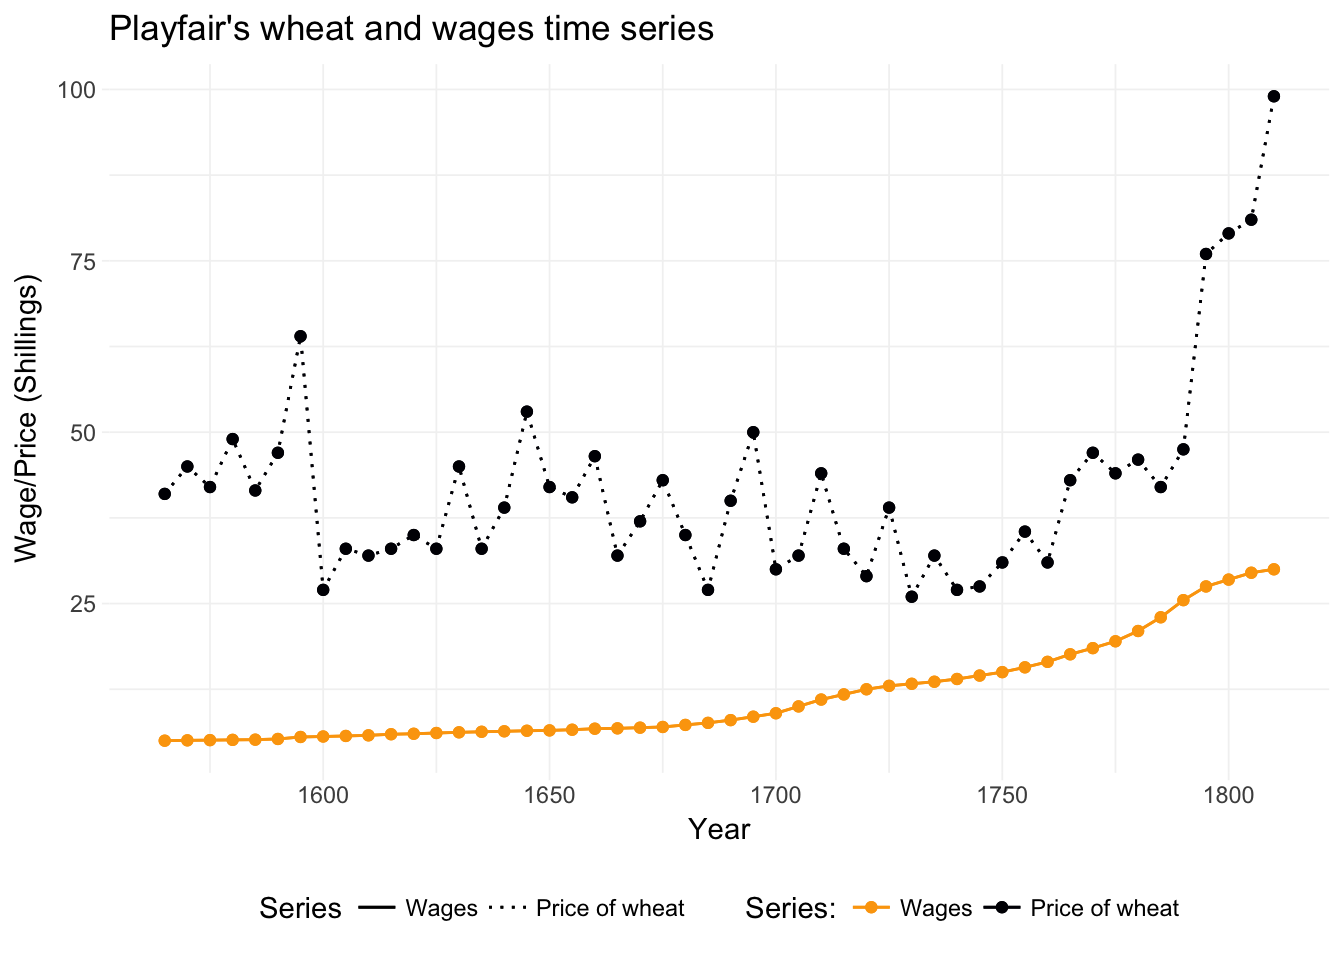
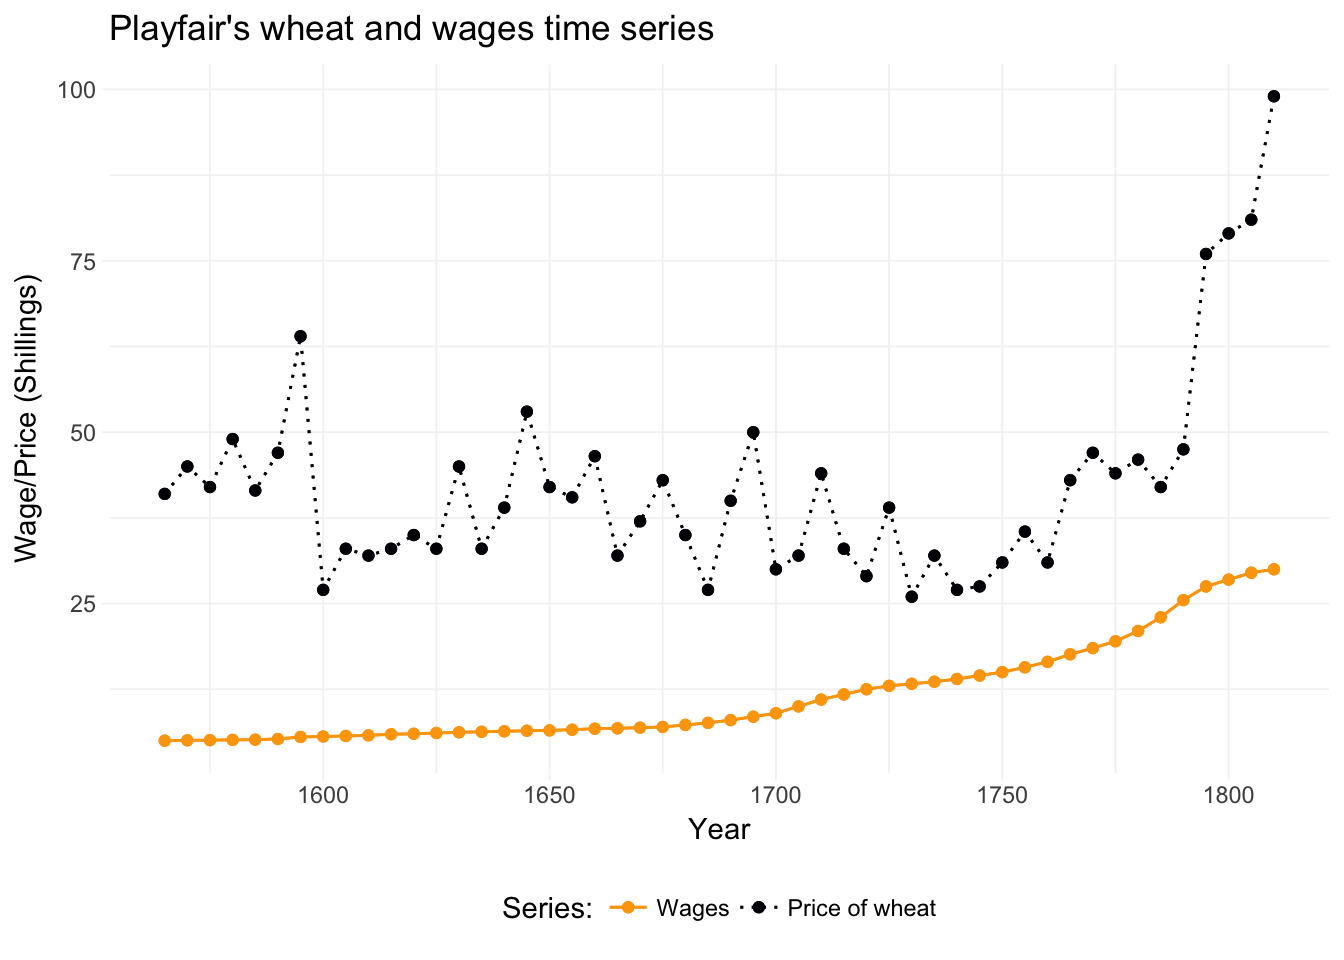
fix sec 10

Changed region(s): [[0.1875, 0.9375, 0.875, 0.9688]]

diff --git a/section10.html b/section10.html
@@ -461,7 +461,7 @@ div.tocify {
 <p>and our estimator of <span class="math inline">\(\boldsymbol{\beta}\)</span> is</p>
 <p><span class="math display">\[ \mathbf{b} = \left( \mathbf{X}^\prime \mathbf{X} \right)^{-1} \mathbf{X}^\prime \mathbf{y} \]</span></p>
 <p>The variance of this estimator is</p>
-<p><span class="math display">\[ \mathop{\text{Var}} \left( \mathbf{b} | \mathbf{X} \right) = \left( \mathbf{X}^\prime \mathbf{X} \right)^{-1} \mathbf{X}^\prime \boldsymbol{\Sigma} \mathbf{X} \left( \mathbf{X}^\prime \mathbf{X} \right)^\prime \]</span></p>
+<p><span class="math display">\[ \mathop{\text{Var}} \left( \mathbf{b} | \mathbf{X} \right) = \left( \mathbf{X}^\prime \mathbf{X} \right)^{-1} \mathbf{X}^\prime \boldsymbol{\Sigma} \mathbf{X} \left( \mathbf{X}^\prime \mathbf{X} \right)^{-1} \]</span></p>
 <p>We know <span class="math inline">\(\mathbf{X}\)</span>. The challenge here is that <span class="math inline">\(\boldsymbol{\Sigma}\)</span>—the variance-covariance matrix of the disturbances—is generally unknown. Let’s write out <span class="math inline">\(\boldsymbol{\Sigma}\)</span>:<a href="#fn3" class="footnoteRef" id="fnref3"><sup>3</sup></a></p>
 <p><span class="math display">\[ \boldsymbol{\Sigma} = \left[\begin{array}{cccc}
 \mathop{\text{Var}}\left(\varepsilon_1\right) &amp;
@@ -539,7 +539,7 @@ div.tocify {
 <span class="kw">options</span>(<span class="dt">scipen =</span> <span class="dv">10</span>)
 <span class="co"># Packages</span>
 <span class="kw">library</span>(pacman)
-<span class="kw">p_load</span>(tidyr, dplyr, lfe, magrittr, ggplot2, viridis, sandwich)
+<span class="kw">p_load</span>(dplyr, lfe, magrittr, ggplot2, viridis, sandwich)
 <span class="co"># My ggplot2 theme</span>
 theme_ed &lt;-<span class="st"> </span><span class="kw">theme</span>(
   <span class="dt">legend.position =</span> <span class="st">&quot;bottom&quot;</span>,
@@ -812,7 +812,7 @@ wheat_df &lt;-<span class="st"> </span>Wheat %&gt;%<span class="st"> </span><spa
 <span class="co"># Drop the rows missing a value</span>
 wheat_df %&lt;&gt;%<span class="st"> </span><span class="kw">na.omit</span>()
 <span class="co"># Long to wide table</span>
-wheat_gg &lt;-<span class="st"> </span>wheat_df %&gt;%<span class="st"> </span><span class="kw">gather</span>(Series, Price, Wheat:Wages)
+wheat_gg &lt;-<span class="st"> </span>wheat_df %&gt;%<span class="st"> </span>tidyr::<span class="kw">gather</span>(Series, Price, Wheat:Wages)
 <span class="co"># Playfair&#39;s graph</span>
 <span class="kw">ggplot</span>(<span class="dt">data =</span> wheat_gg, <span class="kw">aes</span>(<span class="dt">x =</span> Year, <span class="dt">y =</span> Price, <span class="dt">color =</span> Series, <span class="dt">linetype =</span> Series)) +
 <span class="st">  </span><span class="kw">geom_point</span>() +
@@ -823,7 +823,7 @@ wheat_gg &lt;-<span class="st"> </span>wheat_df %&gt;%<span class="st"> </span><
 <span class="st">  </span><span class="kw">ylab</span>(<span class="st">&quot;Wage/Price (Shillings)&quot;</span>) +
 <span class="st">  </span><span class="kw">ggtitle</span>(<span class="st">&quot;Playfair&#39;s wheat and wages time series&quot;</span>) +
 <span class="st">  </span>theme_ed +
-<span class="st">  </span><span class="kw">scale_linetype_manual</span>(<span class="st">&quot;Series&quot;</span>,
+<span class="st">  </span><span class="kw">scale_linetype_manual</span>(<span class="st">&quot;Series:&quot;</span>,
     <span class="dt">values =</span> <span class="kw">c</span>(<span class="dv">1</span>, <span class="dv">3</span>),
     <span class="dt">labels =</span> <span class="kw">c</span>(<span class="st">&quot;Wages&quot;</span>, <span class="st">&quot;Price of wheat&quot;</span>)
   ) +
